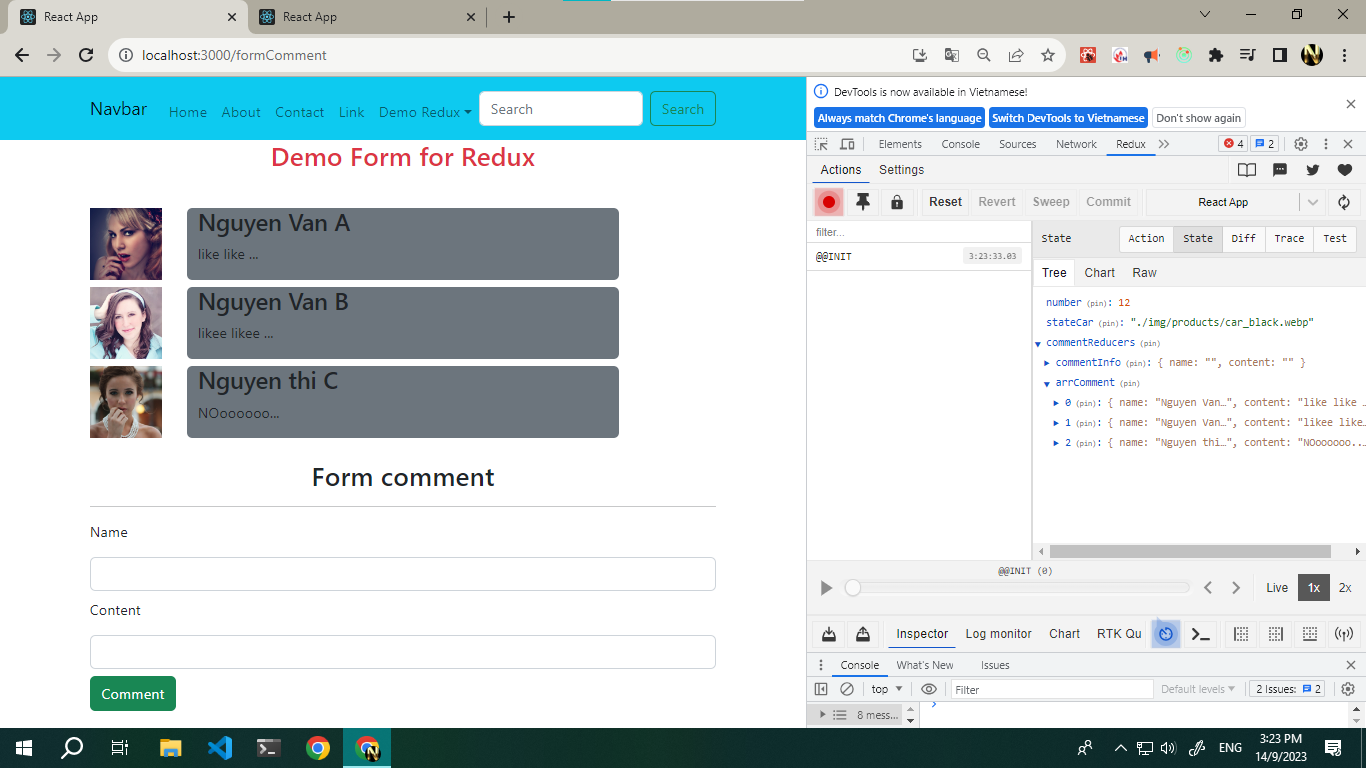
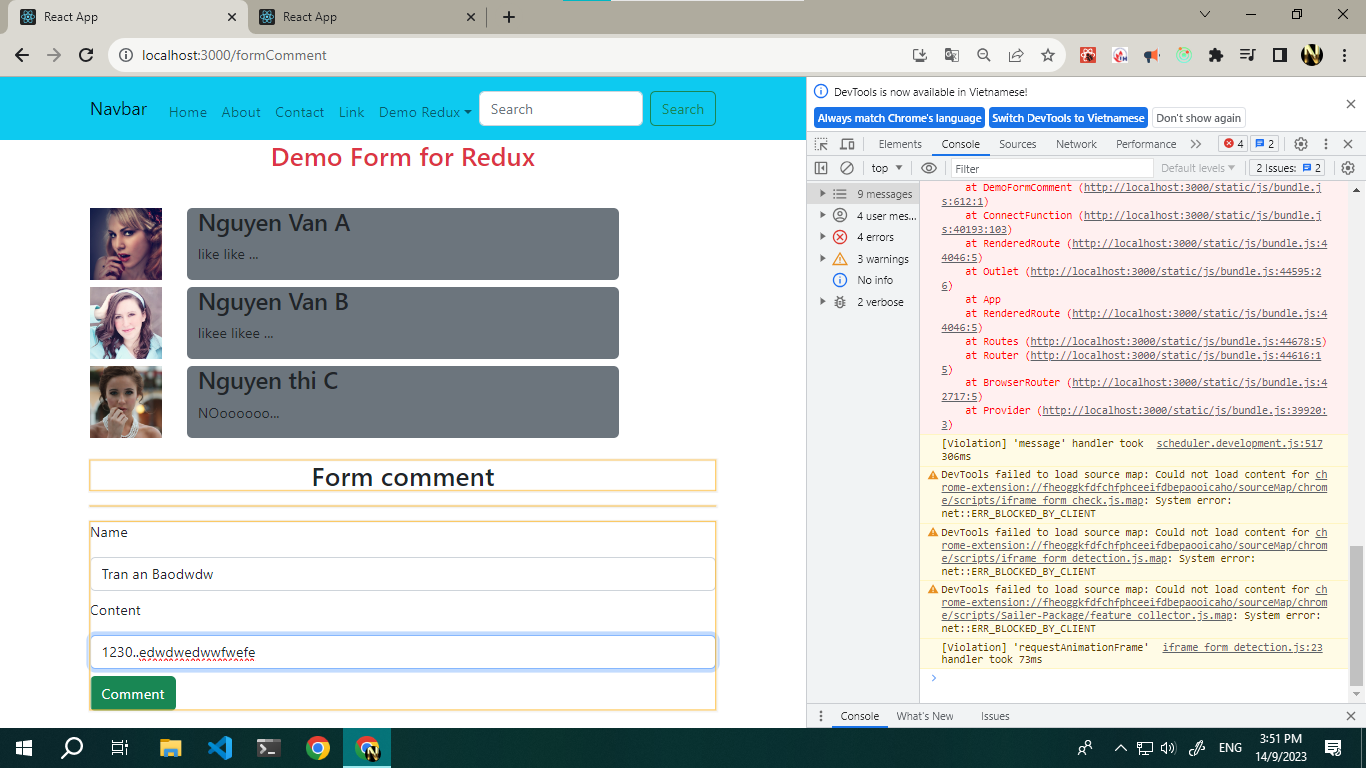
chuyền data redux xuống form

diff --git a/demo-buoi8-redux/src/Page/DemoRedux/DemoFormComment/FormComment.jsx b/demo-buoi8-redux/src/Page/DemoRedux/DemoFormComment/FormComment.jsx
@@ -8,33 +8,65 @@ class FormComment extends Component {
   };
 
   handleSubmit = (e) => {
-    e.preventDefault() ;
+    e.preventDefault();
+  };
+
+  //
+  handleChange = (e) => {
+    let {id,value} = e.target;
+    
+    const action = {
+      type: 'HANDLE_CHANGE',
+      payload: {
+        id: id,
+        value: value
+      }
+    }
+
+    this.props.dispatch(action);
+    
   }
 
   render() {
+    // console.log(this.props);
+    let { name, content } = this.props.commentInfo;
     return (
       <>
         <h2 className="text-center mt-4">Form comment</h2>
         <hr />
-        
-        <form onSubmit={() => this.handleSubmit}>
-            <div className="form-group mt-2">
-                <p>Name</p>
-                <input type="text" name="name" id="name" className="form-control" />
-            </div>
-            <div className="form-group mt-2">
-                <p>Content</p>
-                <input type="text" name="content" id="content" className="form-control" />
-            </div>
-            <div className="form-group mt-2">
-                <button className="btn btn-success">Comment</button>
-            </div>
+
+        <form onSubmit={this.handleSubmit}>
+          <div className="form-group mt-2">
+            <p>Name</p>
+            <input
+              name="name"
+              id="name"
+              value={name}
+              className="form-control"
+              onChange={this.handleChange}
+            />
+          </div>
+          <div className="form-group mt-2">
+            <p>Content</p>
+            <input
+              name="content"
+              id="content"
+              value={content}
+              className="form-control"
+              onChange={this.handleChange}
+            />
+          </div>
+          <div className="form-group mt-2">
+            <button className="btn btn-success">Comment</button>
+          </div>
         </form>
       </>
     );
   }
 }
 
-const mapStateToProps = (state) => ({});
+const mapStateToProps = (state) => ({
+  commentInfo: state.commentReducers.commentInfo,
+});
 
 export default connect(mapStateToProps)(FormComment);

diff --git a/demo-buoi8-redux/src/Redux/Reducers/commentReducers.jsx b/demo-buoi8-redux/src/Redux/Reducers/commentReducers.jsx
@@ -2,8 +2,8 @@
 
 const stateDefault = {
     commentInfo:{
-        name: '',
-        content: ''
+        name: 'Tran an Bao',
+        content: '1230..'
     },
     arrComment:[
         {name: 'Nguyen Van A', content: 'like like ...'},
@@ -15,12 +15,21 @@ const stateDefault = {
 export const commentReducers = ( state = stateDefault, action ) => {
 
     switch (action.type) {
-        case "":
-            
+        case "HANDLE_CHANGE":
+            // lay du lieu vua gui den
+            let {id, value} = action.payload;
+            // doi vs state la obj || arr thi phai  clone state ra
+            let commentInfoUpdate = {...state.commentInfo}
+            // thay doi state
+            commentInfoUpdate[id] = value;
+
+            // gan ve state cu
+            state.commentInfo = commentInfoUpdate
             break;
     
         default:
-            return state;
+            break;
     }
+    return {...state};
 
 }

diff --git a/demo-buoi8-redux/src/Page/DemoRedux/DemoFormComment/TableComment.jsx b/demo-buoi8-redux/src/Page/DemoRedux/DemoFormComment/TableComment.jsx
@@ -10,7 +10,7 @@ class TableComment extends Component {
   render() {
 
     let{arrComment} = this.props;
-    console.log("🚀 ~ file: TableComment.jsx:13 ~ TableComment ~ render ~ arrComment:", arrComment)
+    
     return (
       <>
         {/* <img src=" https://i.pravatar.cc/?u=20" alt="..." height={300} /> */}
